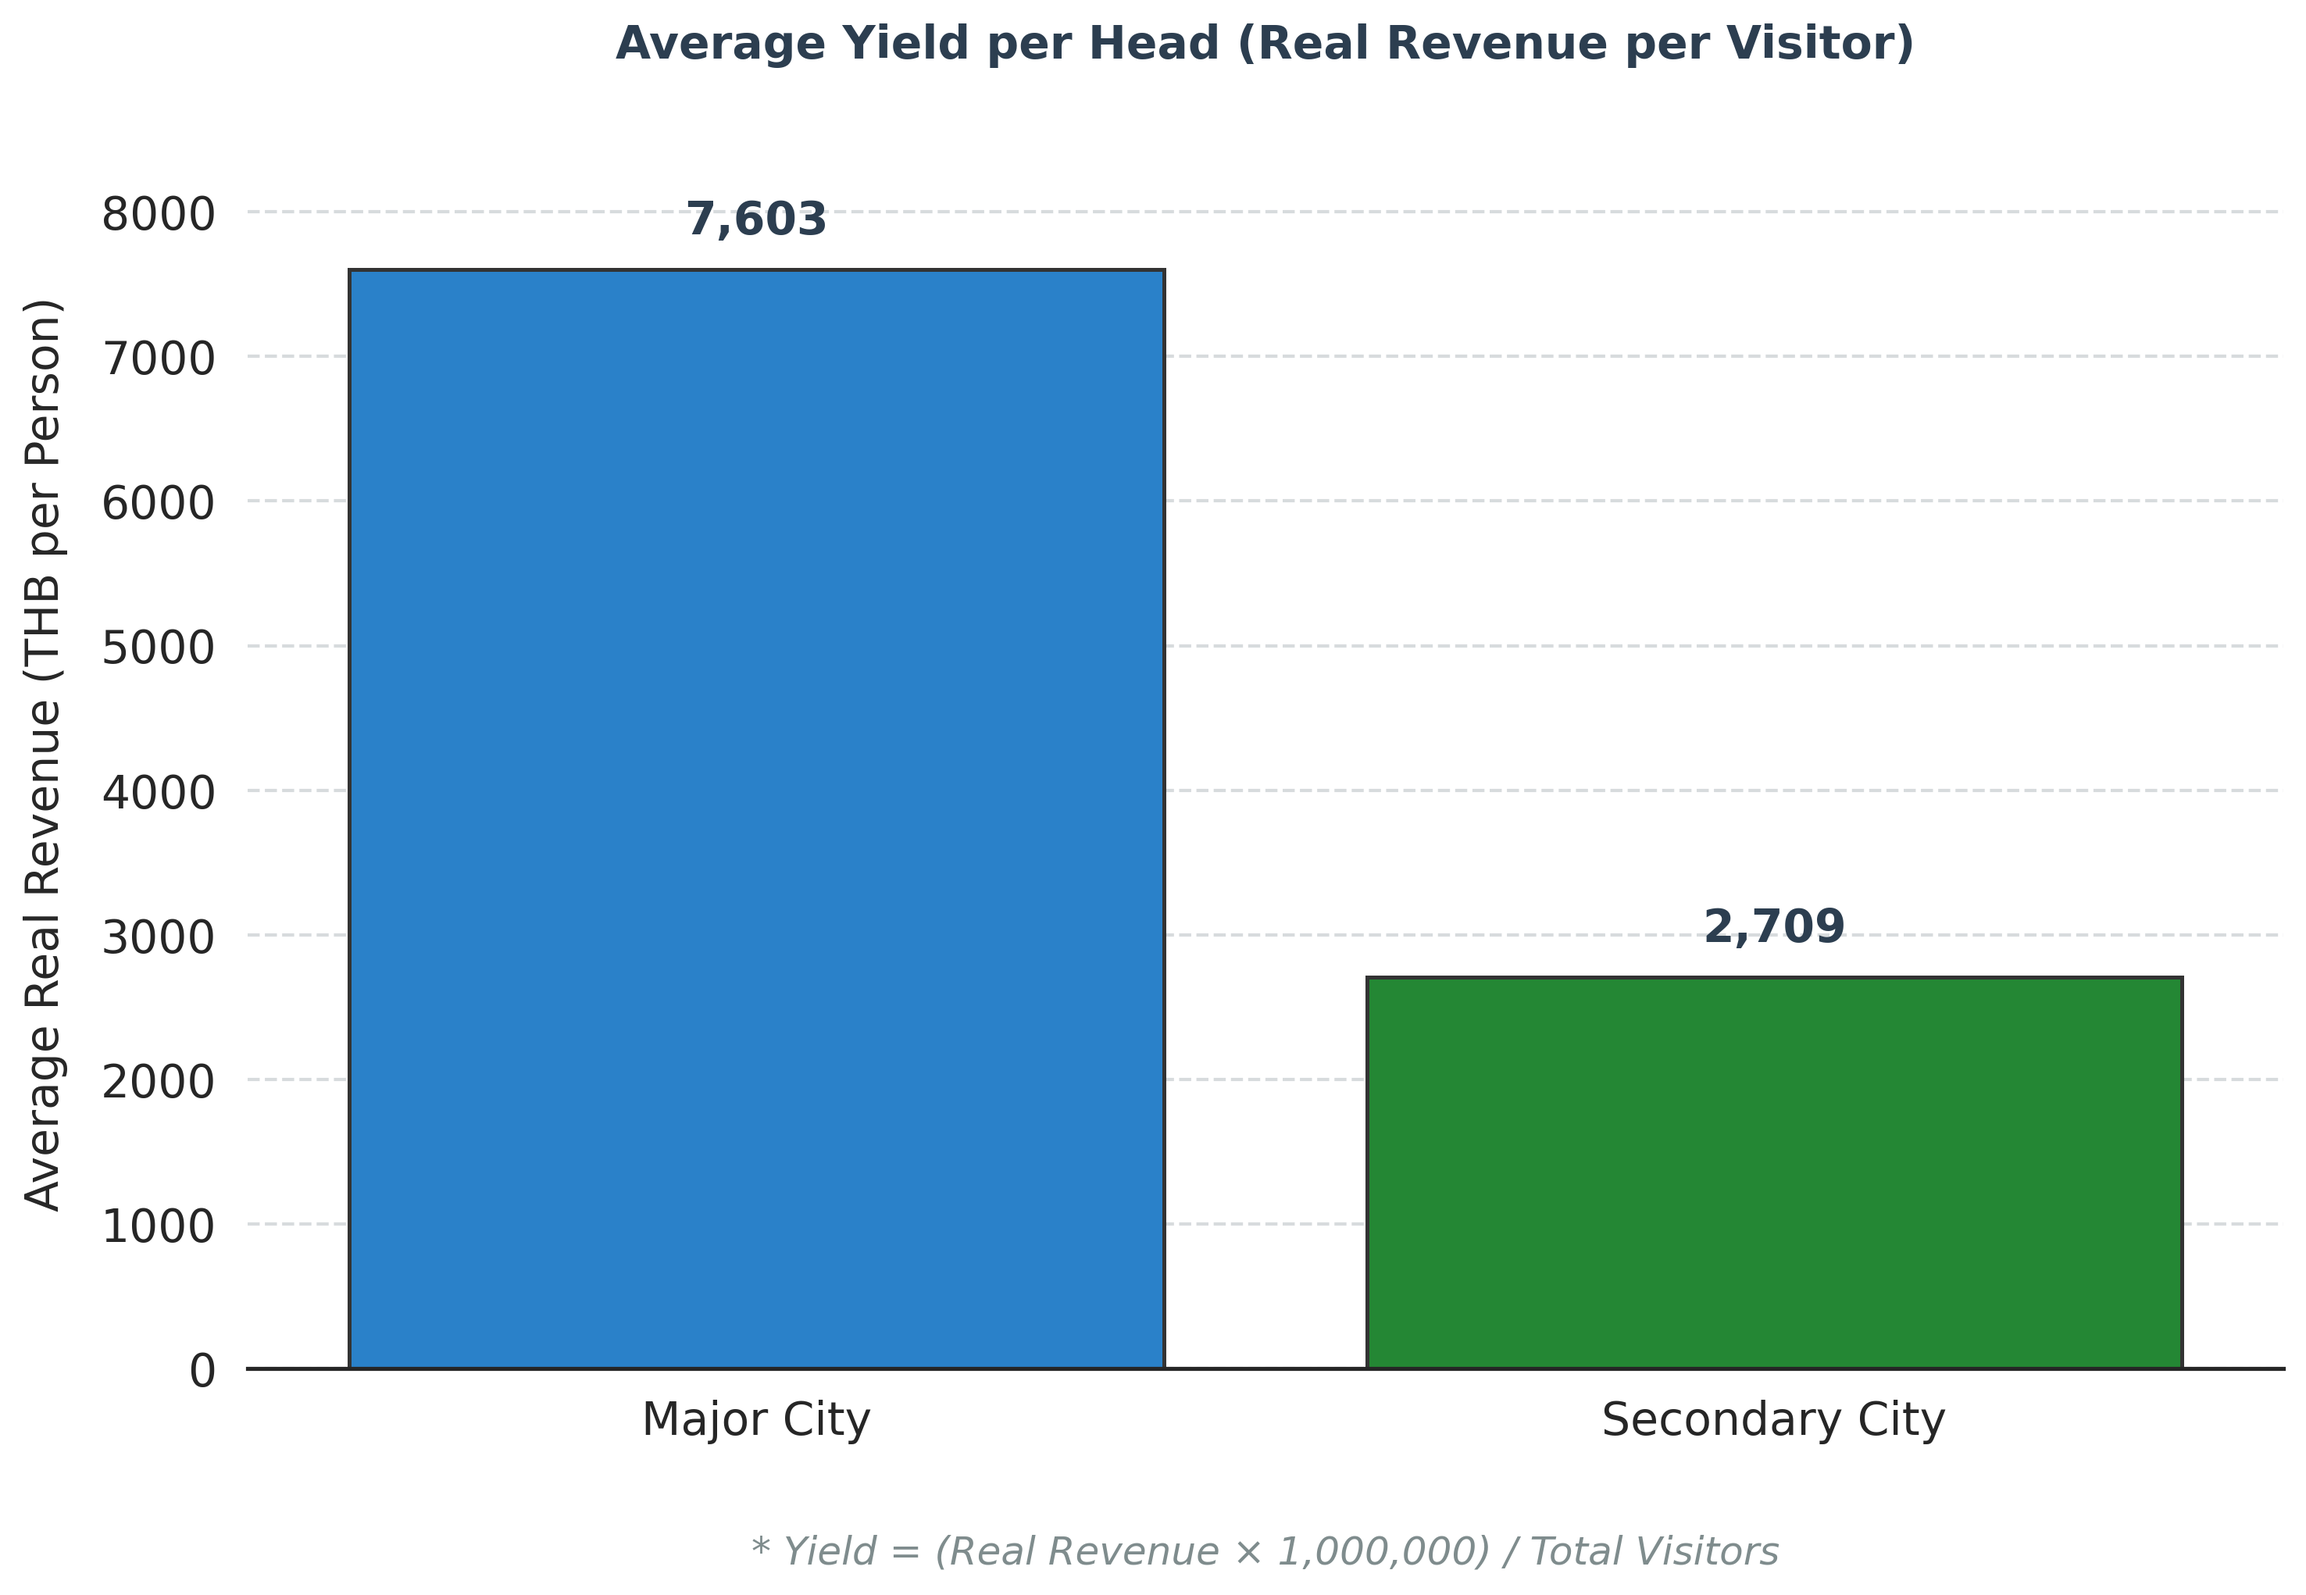
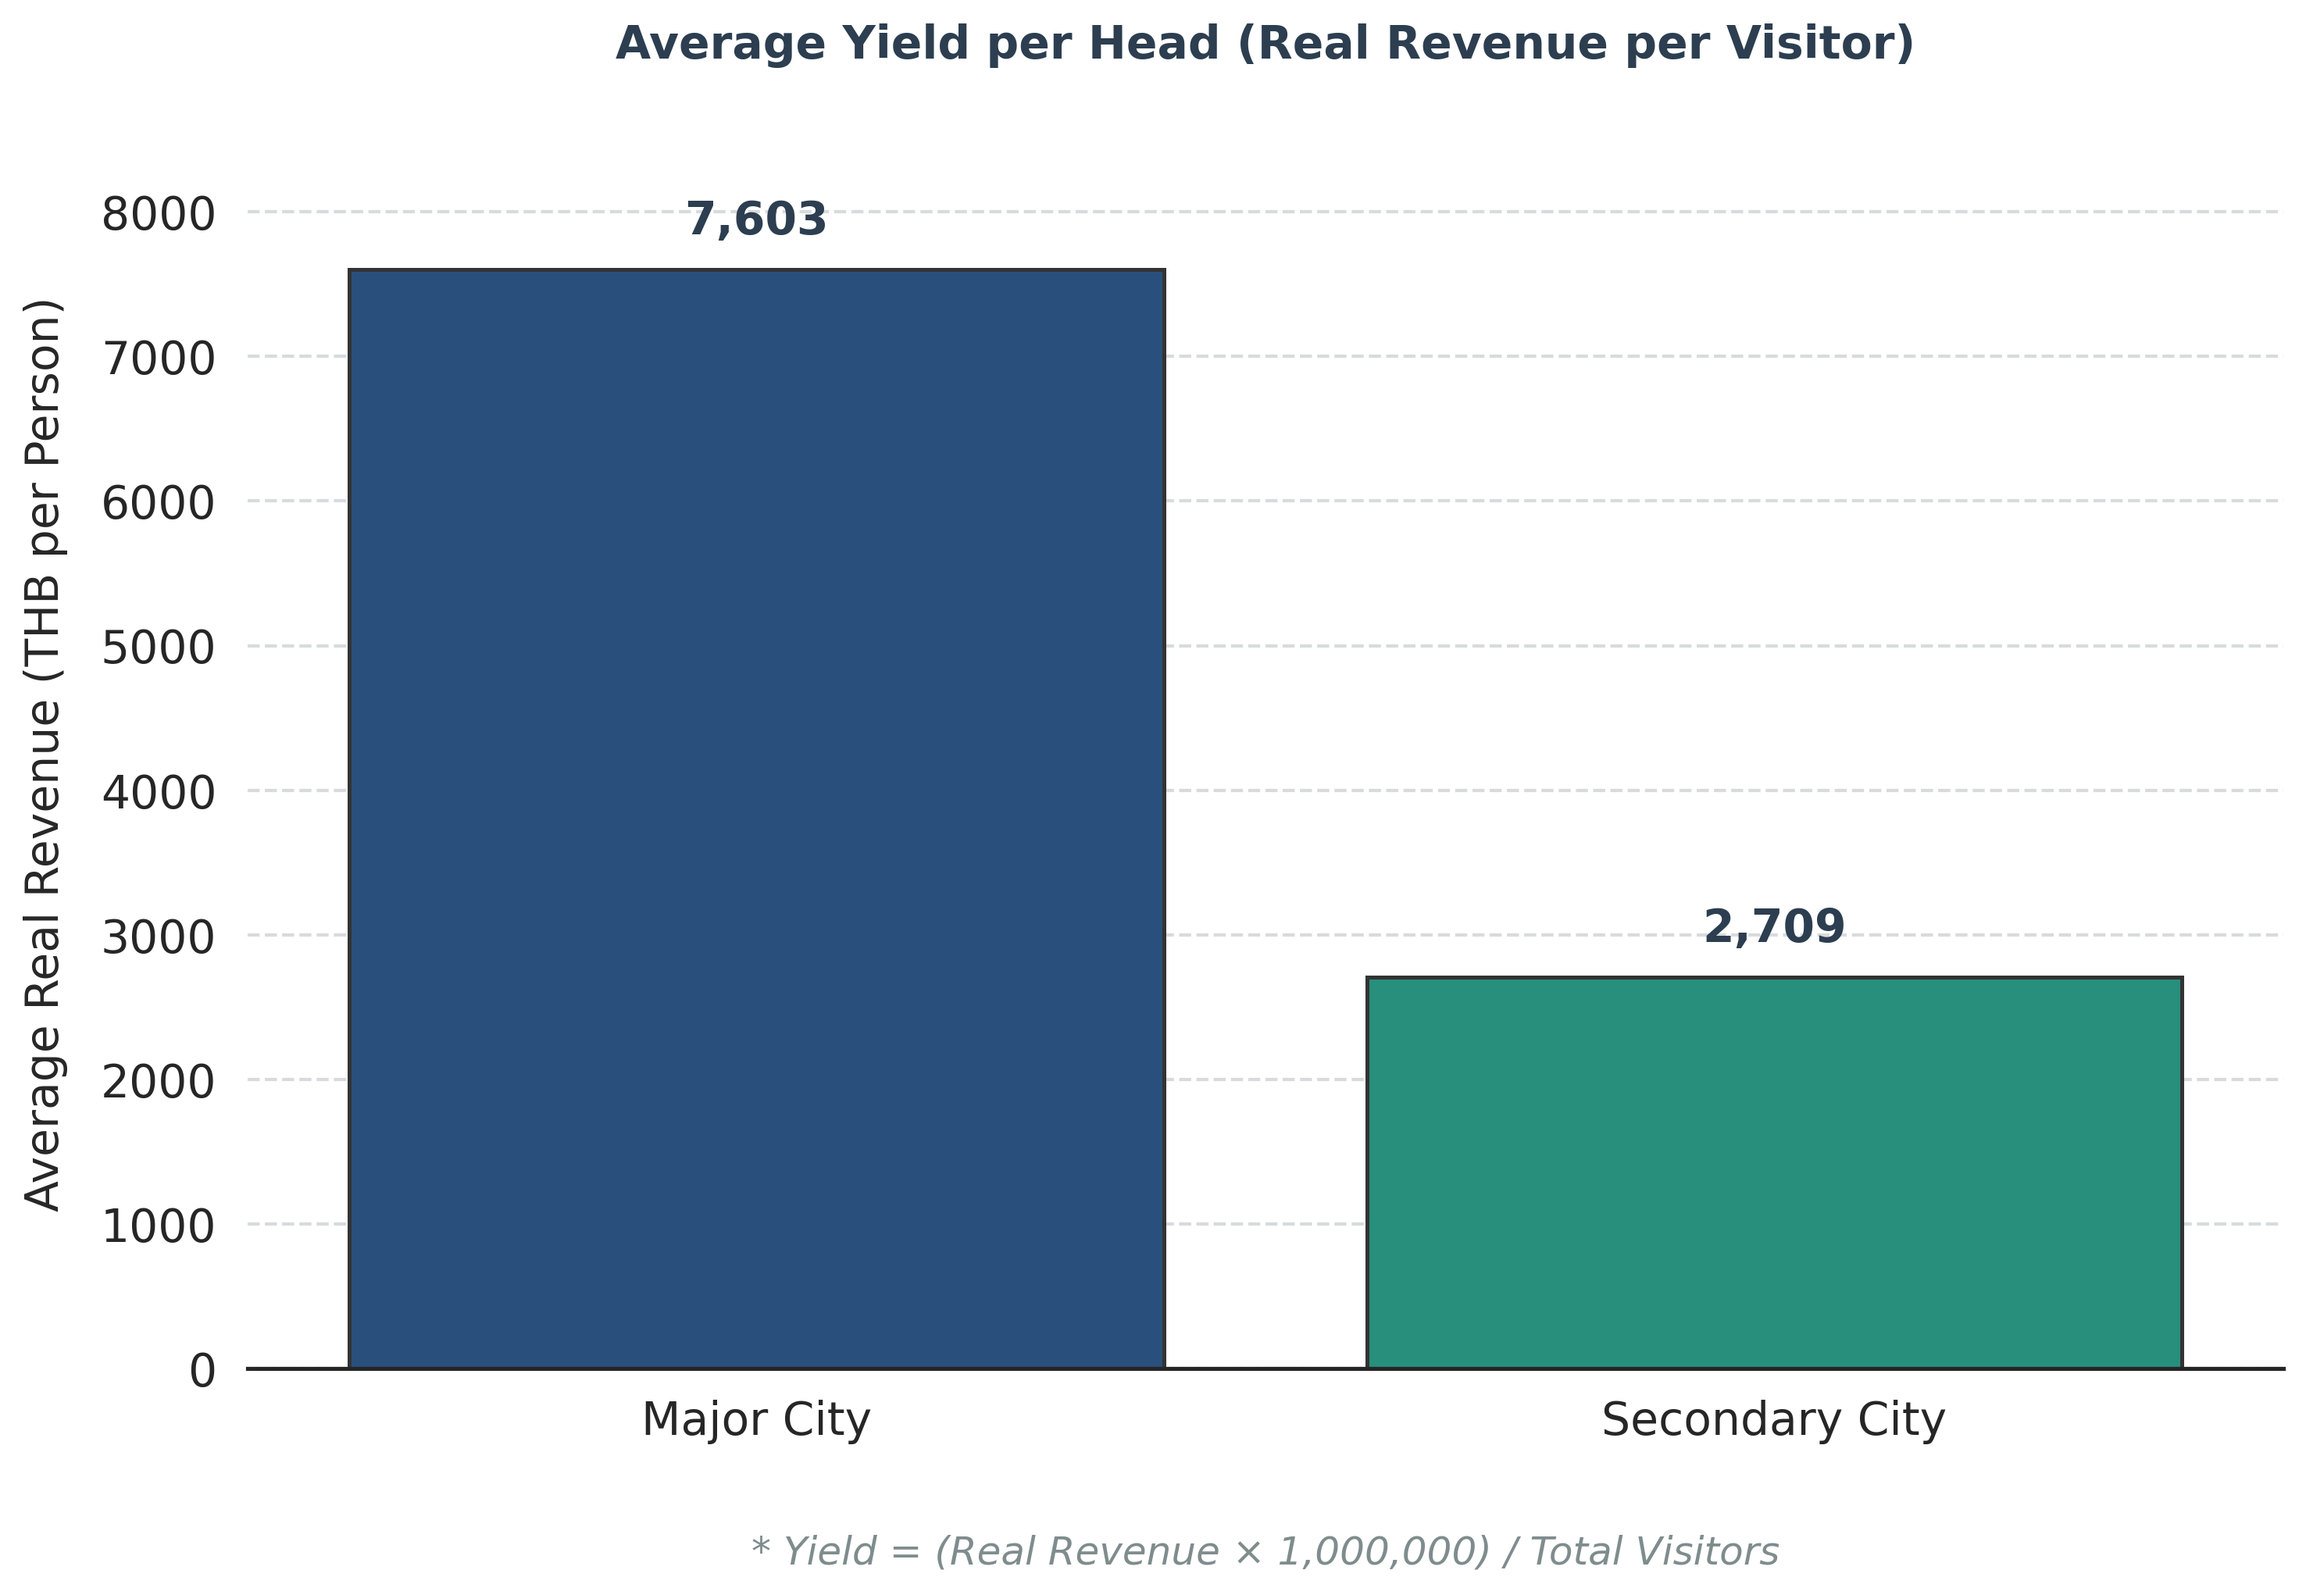
update cleaned data and script

diff --git a/visualizations/07B_mk_segment_77.py b/visualizations/07B_mk_segment_77.py
@@ -58,7 +58,7 @@ secondary_df = agg_df[
 # 6. VISUALIZATION (Same Size Subplots)
 row_height = 0.35
 # Calculate height based on the longest list (Secondary Cities)
-fig_height = max(len(primary_df), len(secondary_df)) * row_height + 4
+fig_height = max(len(primary_df), len(secondary_df)) * row_height + 1.5
 
 # Using standard subplots guarantees ax_left and ax_right are exactly the same height
 fig, (ax_left, ax_right) = plt.subplots(1, 2, figsize=(24, fig_height), facecolor='white')
@@ -70,44 +70,44 @@ ax_left.set_facecolor(bg_color)
 ax_left.barh(primary_df['ProvinceEN'], primary_df['thai_rev_real'], color='#89c4e1', label='Domestic (Thai)')
 ax_left.barh(primary_df['ProvinceEN'], primary_df['fore_rev_real'], left=primary_df['thai_rev_real'], color='#1a6fa8', label='International (Foreign)')
 
-# Value Labels: fontsize=6, fontweight='bold'
+# Value Labels: fontsize=8, fontweight='bold'
 max_l = primary_df['total_rev'].max()
 for i, total in enumerate(primary_df['total_rev']):
-    ax_left.text(total + (max_l * 0.01), i, f'{total:,.0f}', va='center', fontsize=6, fontweight='bold')
+    ax_left.text(total + (max_l * 0.01), i, f'{total:,.0f}', va='center', fontsize=8, fontweight='bold')
 
-# Subplot Title: fontsize=12, fontweight='bold'
-ax_left.set_title('Major Cities: Revenue Powerhouses', fontsize=14, fontweight='bold', pad=10)
+# Subplot Title: fontsize=14, fontweight='bold'
+ax_left.set_title('Major Cities: Revenue Powerhouses', fontsize=16, fontweight='bold', pad=10)
 ax_left.xaxis.set_major_formatter(mtick.StrMethodFormatter('{x:,.0f}'))
 
-# Legend Title: fontsize=10, fontweight='normal' | Legend Text: fontsize=9
-ax_left.legend(title='Revenue Type', title_fontsize=10, loc='lower right', frameon=True, fontsize=9)
-# X-axis Ticks: fontsize=9 | Y-axis Label: fontsize=10
-ax_left.tick_params(axis='x', labelsize=9)
-ax_left.tick_params(axis='y', labelsize=10)
+# Legend Title: fontsize=14, fontweight='normal' | Legend Text: fontsize=14
+ax_left.legend(title='Revenue Type', title_fontsize=14, loc='lower right', frameon=True, fontsize=14)
+# X-axis Ticks: fontsize=12 | Y-axis Label: fontsize=12
+ax_left.tick_params(axis='x', labelsize=12)
+ax_left.tick_params(axis='y', labelsize=12)
 
 # --- RIGHT PANEL: Secondary Cities ---
 ax_right.set_facecolor(bg_color)
 ax_right.barh(secondary_df['ProvinceEN'], secondary_df['thai_rev_real'], color='#a8ddb5', label='Domestic (Thai)')
 ax_right.barh(secondary_df['ProvinceEN'], secondary_df['fore_rev_real'], left=secondary_df['thai_rev_real'], color='#2a8f48', label='International (Foreign)')
 
-# Value Labels: fontsize=6, fontweight='bold'
+# Value Labels: fontsize=8, fontweight='bold'
 max_r = secondary_df['total_rev'].max()
 for i, total in enumerate(secondary_df['total_rev']):
-    ax_right.text(total + (max_r * 0.01), i, f'{total:,.0f}', va='center', fontsize=6, fontweight='bold')
+    ax_right.text(total + (max_r * 0.01), i, f'{total:,.0f}', va='center', fontsize=8, fontweight='bold')
 
 # Subplot Title: fontsize=12, fontweight='bold'
-ax_right.set_title('Secondary Cities: Emerging Potential', fontsize=14, fontweight='bold', pad=10)
+ax_right.set_title('Secondary Cities: Emerging Potential', fontsize=16, fontweight='bold', pad=10)
 ax_right.xaxis.set_major_formatter(mtick.StrMethodFormatter('{x:,.0f}'))
 
 # Legend Title: fontsize=10, fontweight='normal' | Legend Text: fontsize=9
-ax_right.legend(title='Revenue Type', title_fontsize=10, loc='lower right', frameon=True, fontsize=9)
-# X-axis Ticks: fontsize=9 | Y-axis Label: fontsize=10
-ax_right.tick_params(axis='x', labelsize=9)
-ax_right.tick_params(axis='y', labelsize=10)
+ax_right.legend(title='Revenue Type', title_fontsize=14, loc='lower right', frameon=True, fontsize=14)
+# X-axis Ticks: fontsize=12 | Y-axis Label: fontsize=12
+ax_right.tick_params(axis='x', labelsize=12)
+ax_right.tick_params(axis='y', labelsize=12)
 
 # 7. FINAL TOUCHES
-# Figure Title (suptitle): fontsize=16, fontweight='bold', y=0.87
-plt.suptitle('Full Revenue Comparison', fontsize=16, fontweight='bold', y=0.87)
+# Figure Title (suptitle): fontsize=18, fontweight='bold', y=0.87
+plt.suptitle('Major vs. Secondary Cities: Total Revenue Comparison', fontsize=18, fontweight='bold', y=0.87)
 
 # FIXED SPACING: Stop the subplots at 0.86 so they don't crash into the title at 0.87
 plt.tight_layout(rect=[0.05, 0.01, 0.95, 0.86], w_pad=10)

diff --git a/visualizations/06A_Real Wealth Generation.py b/visualizations/06A_Real Wealth Generation.py
@@ -32,7 +32,7 @@ if os.path.exists(geojson_path) and os.path.exists(csv_path):
 
     # ─── 3. PLOTTING (Compact Layout) ────────────────────────────────────────
     # 📌 ลดความสูงจาก 8.5 เป็น 8.0 เพื่อลดพื้นที่ว่าง
-    fig, ax = plt.subplots(figsize=(6, 8.0), dpi=150, facecolor='#FFFFFF')
+    fig, ax = plt.subplots(figsize=(6, 7), dpi=150, facecolor='#FFFFFF')
     ax.axis('off')
 
     # 📌 ปรับ bottom ลงมาเพื่อยืดแผนที่ลงด้านล่างให้สุด
@@ -62,11 +62,11 @@ if os.path.exists(geojson_path) and os.path.exists(csv_path):
 
     # 📌 Figure Title (suptitle) → fontsize=16, fontweight='bold', y=0.87
     plt.suptitle('Thailand Tourism Wealth Distribution', 
-                 fontsize=16, fontweight='bold', color='#111827', y=0.87)
+                 fontsize=14, fontweight='bold', color='#111827', y=0.87)
 
     # 📌 Subplot Title → fontsize=12, fontweight='bold'
     ax.set_title('Strategic Map: Comparison of Major and Secondary Cities', 
-                 fontsize=12, fontweight='bold', color='#6B7280', pad=15)
+                 fontsize=10, color='#6B7280', pad=15)
 
     # ─── 5. COLORBARS & TICKS ────────────────────────────────────────────────
     

diff --git a/visualizations/04.2_Ranking.py b/visualizations/04.2_Ranking.py
@@ -42,7 +42,7 @@ df_secon_final = get_top5('Secon')
 
 # --- 2. VISUALIZATION (ปรับพื้นที่ให้กระชับ) ---
 # บีบ figsize จาก (15, 5) เหลือ (15, 4) เพื่อลดพื้นที่ว่างด้านบน-ล่าง
-fig, (ax1, ax2) = plt.subplots(1, 2, figsize=(15, 4), facecolor='white')
+fig, (ax1, ax2) = plt.subplots(1, 2, figsize=(15, 3), facecolor='white')
 ax1.axis('off')
 ax2.axis('off')
 
@@ -57,7 +57,7 @@ def draw_table(ax, df, header_color, title, city_col_name):
                      cellLoc='center')
     
     table.auto_set_font_size(False)
-    table.set_fontsize(11)
+    table.set_fontsize(14)
     table.scale(1, 2.0) # ลด scale ความสูงลงเล็กน้อย
     
     for (row, col), cell in table.get_celld().items():

diff --git a/visualizations/01_C_YieldPerHead.py b/visualizations/01_C_YieldPerHead.py
@@ -54,7 +54,7 @@ sns.set_theme(style="white")
 fig, ax = plt.subplots(figsize=(10, 7)) # ปรับสัดส่วนให้เตี้ยลงเล็กน้อยเพื่อความสมดุล
 
 # กำหนดสีแยกตามประเภทเมือง
-palette = ["#1084e3" if 'Major' in city else "#139829" for city in yield_stats['City_type_EN']]
+palette = ["#1B4F8A" if 'Major' in city else "#16A085" for city in yield_stats['City_type_EN']]
 
 sns.barplot(
     data=yield_stats,

diff --git a/README.md b/README.md
@@ -236,7 +236,7 @@ After conducting a deep dive into the economic performance of the 55 secondary p
 <p align="center">
   <img src="visualizations/Figure_7B_Revenue_Comparison.png" alt="Full Revenue Comparison" width="1000">
 </p>
-<p align="center"><strong>Figure 7B. Revenue Powerhouses vs. Emerging Potential
+<p align="center"><strong>Figure 7B. Major vs. Secondary Cities: Total Revenue Comparison
 
 </strong></p>
 
